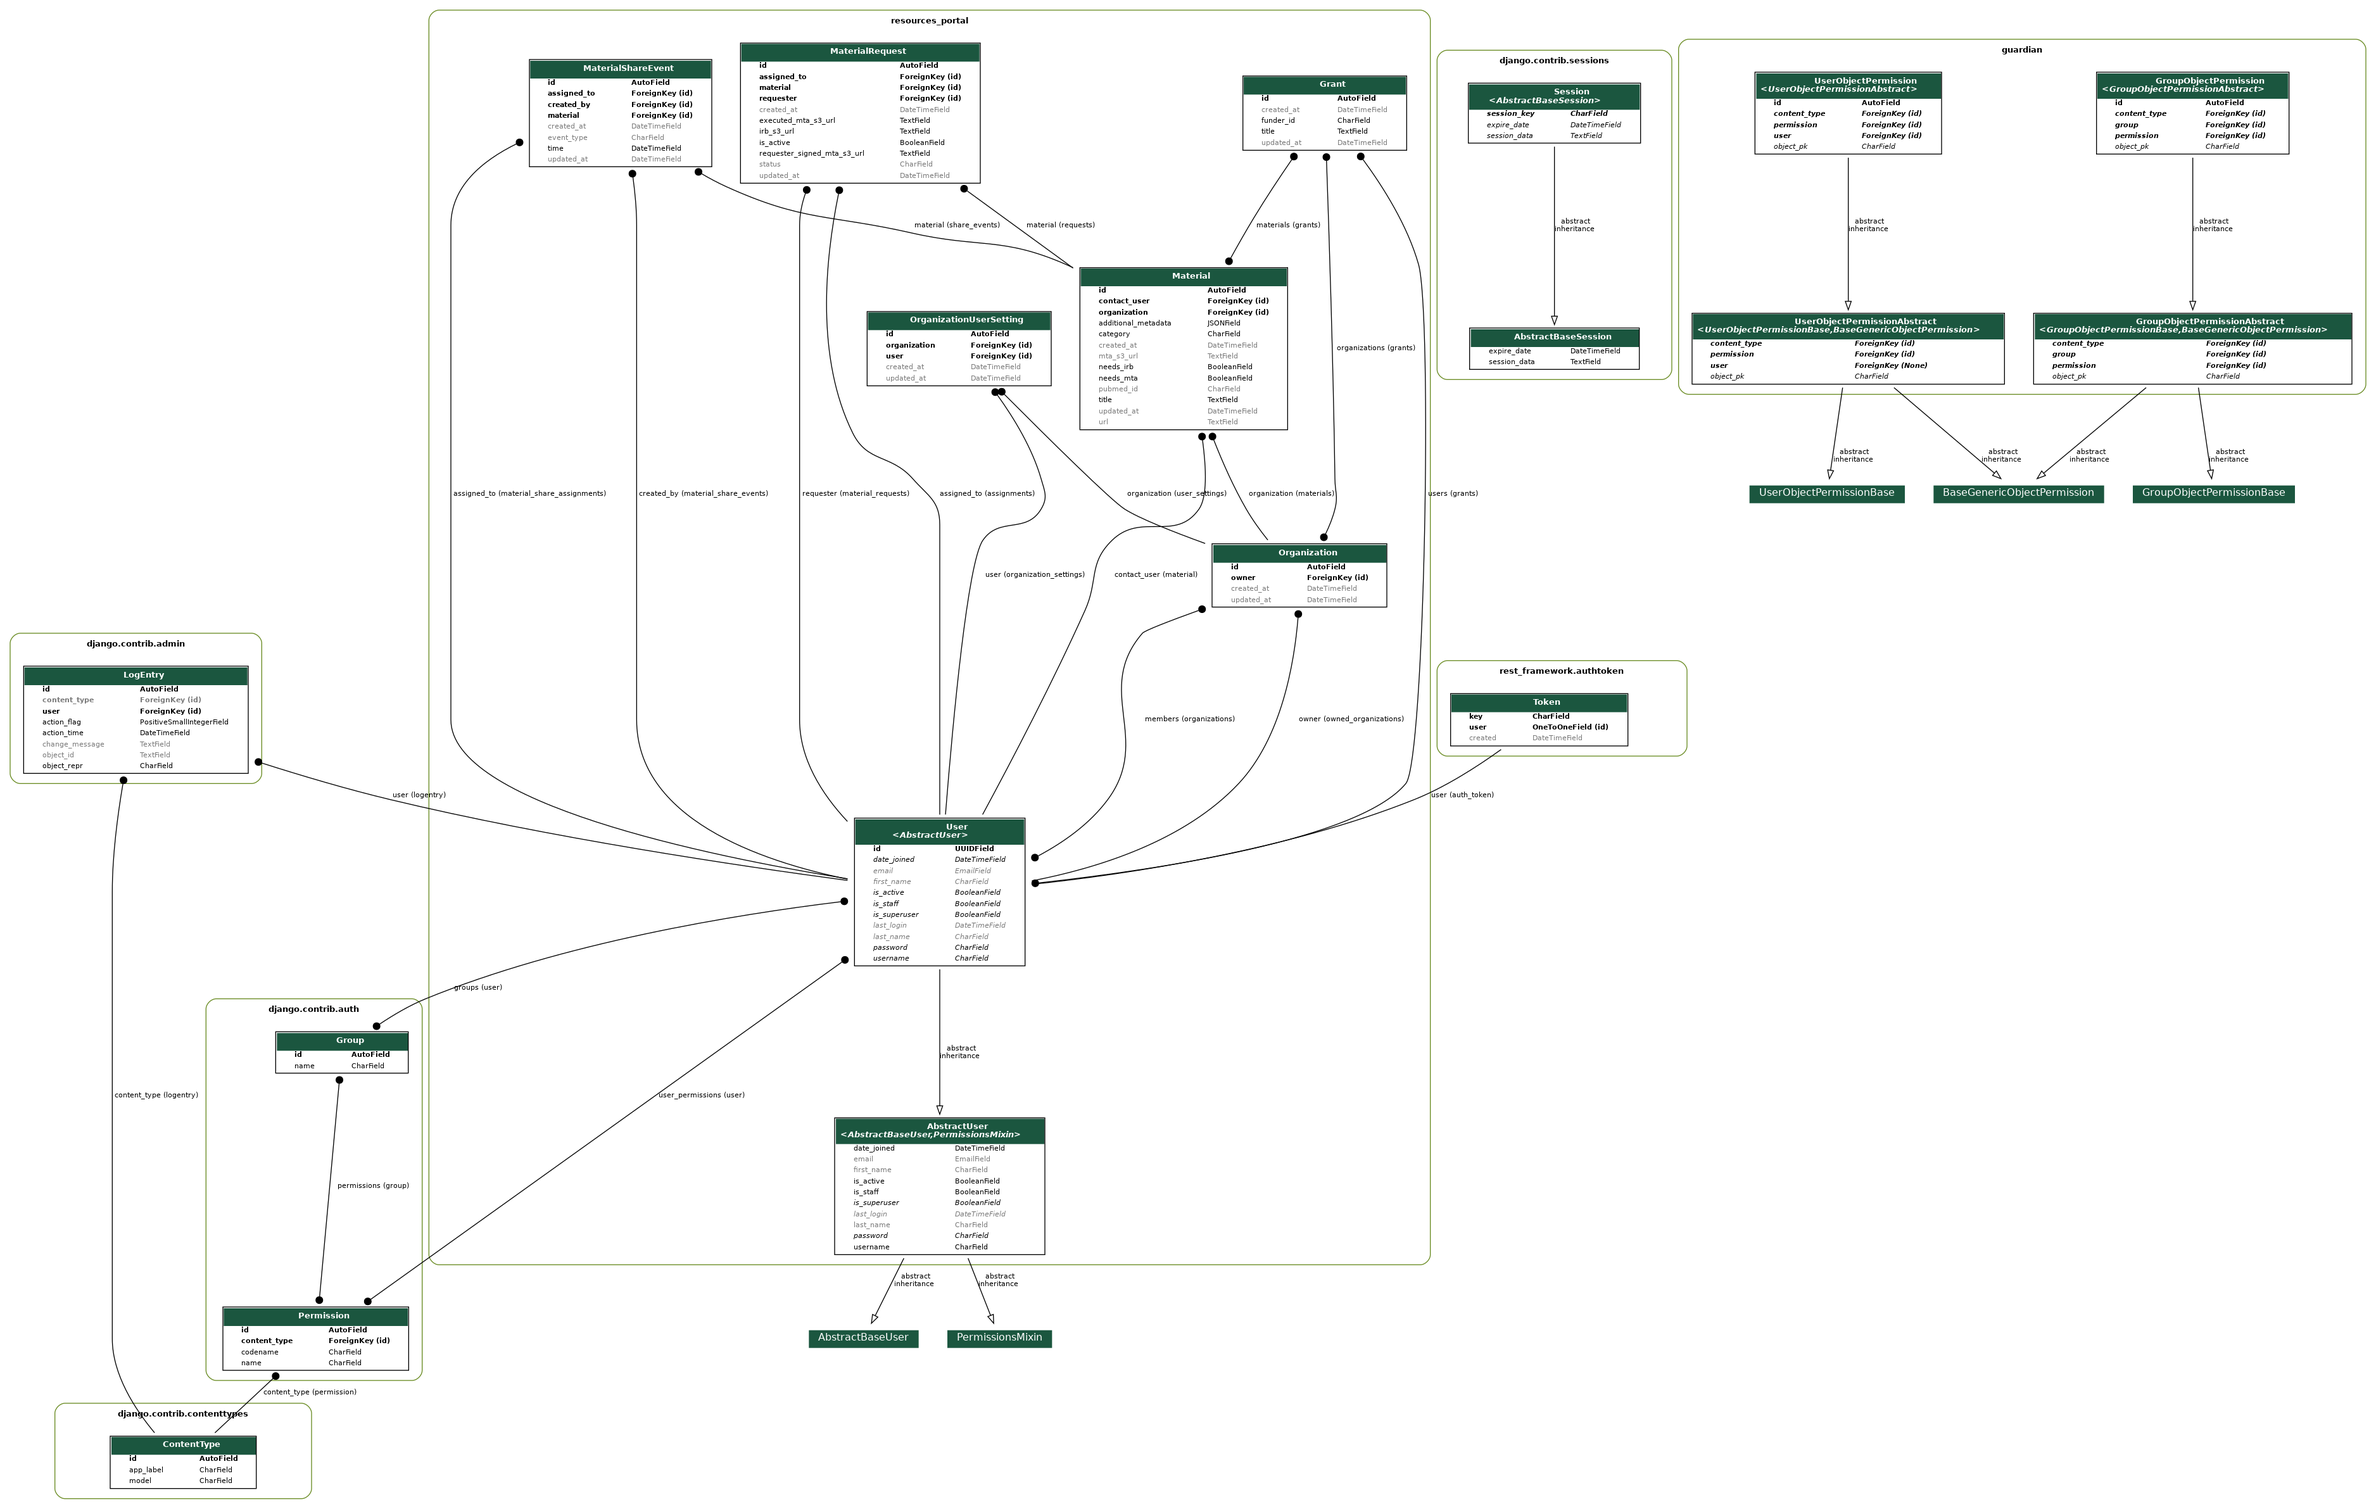
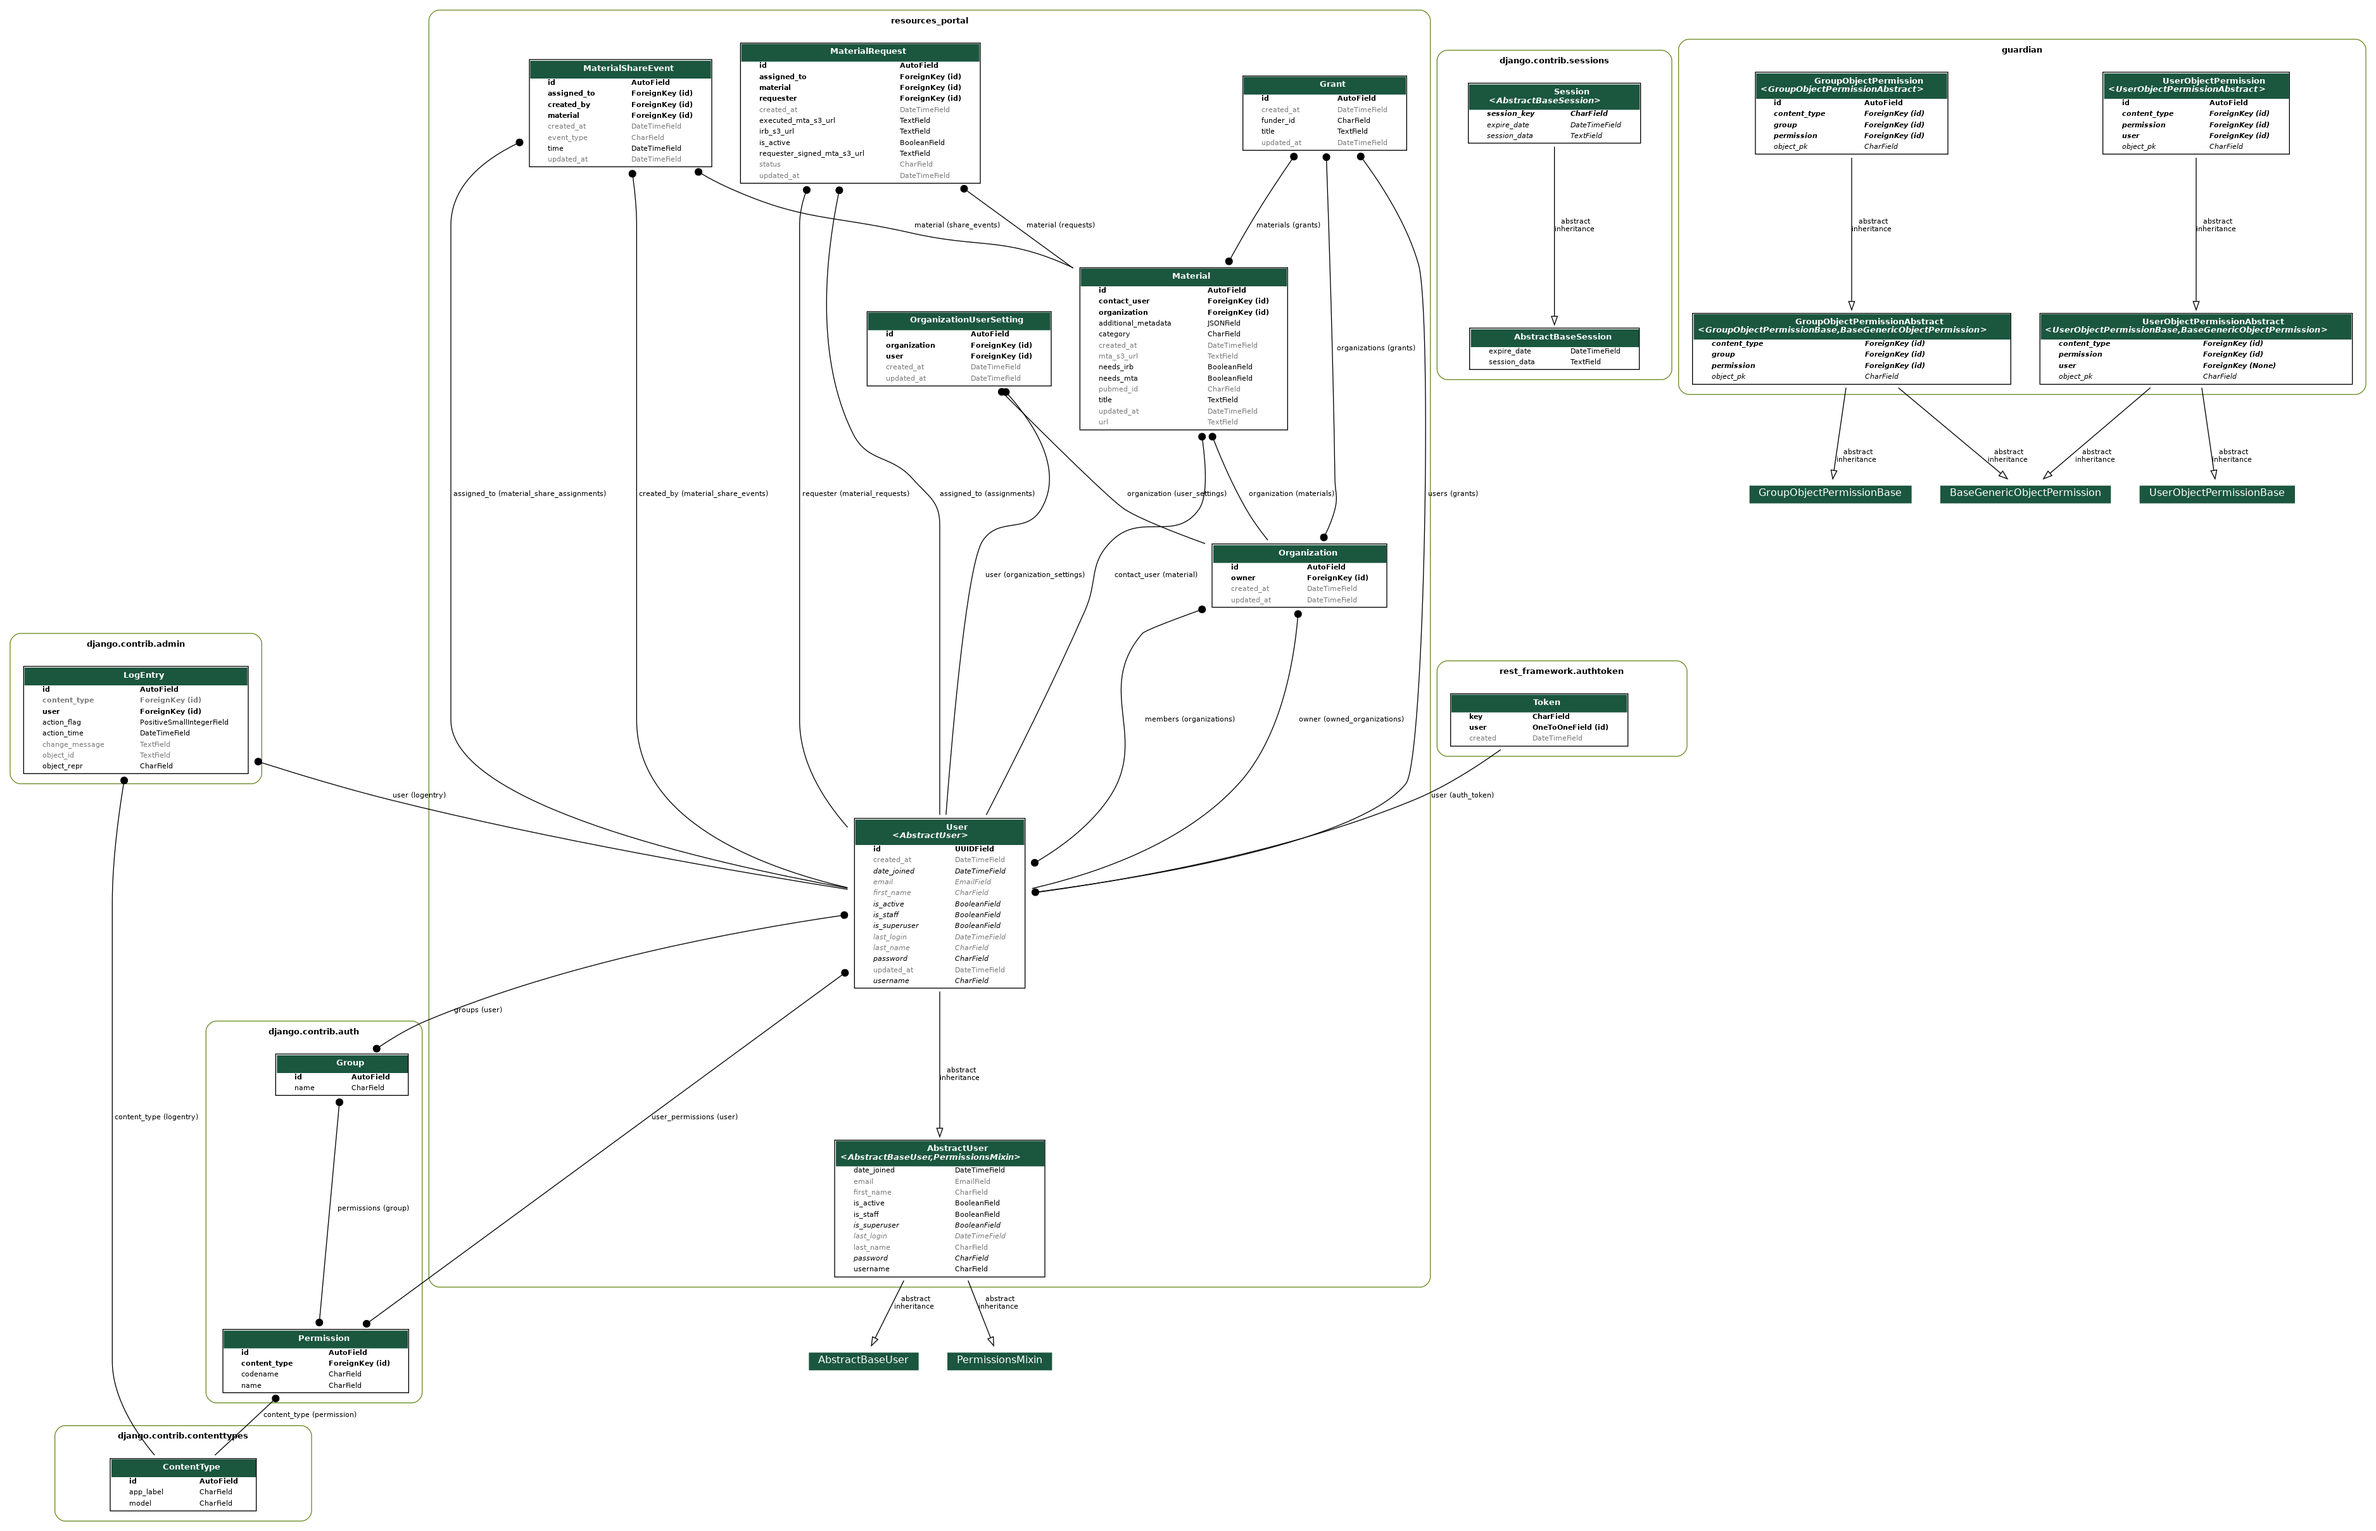
Return contact_user object in material requests, add time fields to user, regenerate database diagram.

diff --git a/api/resources_portal/migrations/0005_auto_20200401_1925.py b/api/resources_portal/migrations/0005_auto_20200401_1925.py
@@ -1,0 +1,36 @@
+# Generated by Django 3.0.3 on 2020-04-01 19:25
+
+from django.db import migrations, models
+import django.utils.timezone
+
+
+class Migration(migrations.Migration):
+
+    dependencies = [
+        ('resources_portal', '0004_auto_20200324_1531'),
+    ]
+
+    operations = [
+        migrations.RenameField(
+            model_name='material',
+            old_name='material_type',
+            new_name='category',
+        ),
+        migrations.AddField(
+            model_name='material',
+            name='title',
+            field=models.TextField(default='None'),
+            preserve_default=False,
+        ),
+        migrations.AddField(
+            model_name='user',
+            name='created_at',
+            field=models.DateTimeField(auto_now_add=True, default=django.utils.timezone.now),
+            preserve_default=False,
+        ),
+        migrations.AddField(
+            model_name='user',
+            name='updated_at',
+            field=models.DateTimeField(auto_now=True),
+        ),
+    ]

diff --git a/api/resources_portal/views/material.py b/api/resources_portal/views/material.py
@@ -1,6 +1,7 @@
 from rest_framework import serializers, viewsets
 
 from resources_portal.models import Material
+from resources_portal.views.user import UserSerializer
 
 
 class MaterialSerializer(serializers.ModelSerializer):
@@ -18,9 +19,18 @@ class MaterialSerializer(serializers.ModelSerializer):
             "created_at",
             "updated_at",
         )
-        read_only_fields = ()
+        read_only_fields = ("id", "created_at", "updated_at")
+
+
+class MaterialDetailSerializer(MaterialSerializer):
+    contact_user = UserSerializer()
 
 
 class MaterialViewSet(viewsets.ModelViewSet):
     queryset = Material.objects.all()
-    serializer_class = MaterialSerializer
+
+    def get_serializer_class(self):
+        if self.action == "retrieve":
+            return MaterialDetailSerializer
+
+        return MaterialSerializer

diff --git a/api/resources_portal/test/views/test_material.py b/api/resources_portal/test/views/test_material.py
@@ -48,10 +48,13 @@ class TestSingleMaterialTestCase(APITestCase):
         self.assertEqual(response.status_code, status.HTTP_200_OK)
 
     def test_put_request_updates_a_material(self):
-        # TODO: this should require authentication.
         material_json = self.client.get(self.url).json()
+
         new_url = fake.url()
         material_json["url"] = new_url
+        material_json["contact_user"] = material_json["contact_user"]["id"]
+
+        # TODO: this should require authentication
         response = self.client.put(self.url, material_json)
         self.assertEqual(response.status_code, status.HTTP_200_OK)
 

diff --git a/api/resources_portal/test/views/test_user.py b/api/resources_portal/test/views/test_user.py
@@ -20,6 +20,9 @@ class TestUserListTestCase(APITestCase):
     def setUp(self):
         self.url = reverse("user-list")
         self.user_data = factory.build(dict, FACTORY_CLASS=UserFactory)
+        # Don't post created_at and updated_at.
+        self.user_data.pop("created_at")
+        self.user_data.pop("updated_at")
 
     def test_post_request_with_no_data_fails(self):
         response = self.client.post(self.url, {})

diff --git a/api/resources_portal/views/user.py b/api/resources_portal/views/user.py
@@ -14,8 +14,10 @@ class UserSerializer(serializers.ModelSerializer):
             "username",
             "first_name",
             "last_name",
+            "created_at",
+            "updated_at",
         )
-        read_only_fields = ("username",)
+        read_only_fields = ("username", "created_at", "updated_at")
 
 
 class UserViewSet(mixins.RetrieveModelMixin, mixins.UpdateModelMixin, viewsets.GenericViewSet):

diff --git a/api/resources_portal/test/factories.py b/api/resources_portal/test/factories.py
@@ -1,3 +1,5 @@
+from django.utils import timezone
+
 import factory
 
 
@@ -16,6 +18,9 @@ class UserFactory(factory.django.DjangoModelFactory):
     last_name = factory.Faker("last_name")
     is_active = True
     is_staff = False
+
+    created_at = timezone.now()
+    updated_at = timezone.now()
 
 
 class OrganizationFactory(factory.django.DjangoModelFactory):

diff --git a/api/resources_portal/models/user.py b/api/resources_portal/models/user.py
@@ -10,6 +10,8 @@ from rest_framework.authtoken.models import Token
 
 class User(AbstractUser):
     id = models.UUIDField(primary_key=True, default=uuid.uuid4, editable=False)
+    created_at = models.DateTimeField(auto_now_add=True)
+    updated_at = models.DateTimeField(auto_now=True)
 
     def __str__(self):
         return self.id
